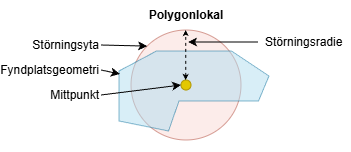
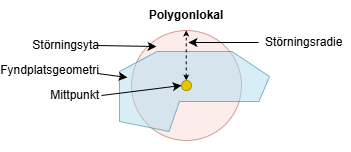
Update signal search docs

diff --git a/Docs/SignalSearch.md b/Docs/SignalSearch.md
@@ -15,9 +15,11 @@
    - [5.3 Date (mandatory)](#53-date-mandatory)
    - [5.4 Other filters (optional)](#54-other-filters-optional)
 6. [Geographic filter](#6-geographic-filter)
-   - [6.1 How geographic information is stored](#61-how-geographic-information-is-stored)
-   - [6.2 How geometry is used in searches](#62-how-geometry-is-used-in-searches)
-   - [6.3 Accuracy-based limitation](#63-accuracy-based-limitation)
+    ### 6.1 Location types
+   - [6.1 Location types](#61-location-types)
+   - [6.2 How geographic information is stored](#62-how-geographic-information-is-stored)
+   - [6.3 How geometry is used in searches](#63-how-geometry-is-used-in-searches)
+   - [6.4 Accuracy-based limitation](#64-accuracy-based-limitation)
 7. [Logging and traceability](#7-logging-and-traceability)
 8. [Signal Search API endpoint](#8-signal-search-api-endpoint)
    - [8.1 Endpoint](#81-endpoint)
@@ -162,43 +164,43 @@ If no mandatory taxon list is provided, **HTTP 400 (Bad Request)** is returned.
 
 ## 6. Geographic filter
 
-The geographic filter allows the user to specify how geographic information should be handled in signal searches, in order to account for positional uncertainty in observations and species sensitivity to disturbance.
+The geographic filter allows the user to specify how geographic information should be handled in signal searches, in order to account for positional uncertainty in observations and species' sensitivity to disturbance.
 
-### 6.1 How geographic information is stored
+### 6.1 Location types
+
+There are two types of locations for observations. An observation always uses one of these location types, which determines how the observation's geometry is constructed and handled in geographic searches.
+
+* **Point location:** Specified with a *centroid* and a *coordinate uncertainty*. The observation's *observation geometry* is created by generating a circular polygon where the radius is the same as the coordinate uncertainty.
+
+![Point location illustration](Images/point-location.png)
+
+* **Polygon location:** Consists of a specifically drawn polygon that describes the actual spatial extent of the observation. *Coordinate uncertainty* is not used for these locations; instead, the polygon itself constitutes the *observation geometry*.
+
+![Polygon location illustration](Images/polygon-location.png)
+
+### 6.2 How geographic information is stored
 
 Each observation can be represented geographically in the following ways:
 
 1. **Centroid (location.point)**.
-   A point representing the reported position of the observation, together with a coordinate uncertainty (`coordinateUncertaintyInMeters`).
-
+A point representing the position of the observation, together with a coordinate uncertainty (`coordinateUncertaintyInMeters`).
 2. **Observation geometry (location.pointWithBuffer)**.
-For point-based observations, a circular polygon is created where the centroid is the observation point and the radius corresponds to the coordinate uncertainty (`coordinateUncertaintyInMeters`) i.e. the distance (in meters) from the given point describing the smallest circle containing the whole of the location.
-For **polygon locations**, the **exact polygon** describing the true spatial extent of the observation is stored instead. Polygon locations are therefore not converted into circles.
-
+    - For **point locations**, a circular polygon is created where the centroid is the observation point and the radius corresponds to the coordinate uncertainty (`coordinateUncertaintyInMeters`), i.e. the distance (in meters) from the given point describing the smallest circle containing the whole of the location.
+    - For **polygon locations**, the exact polygon describing the true spatial extent of the observation is stored instead. Polygon locations are therefore not converted into circles.
 3. **Disturbance area (location.pointWithDisturbanceBuffer)**.
-A polygon created from the observation centroid and the taxon’s defined disturbance radius. A disturbance radius is defined as the distance at which a disturbance may have affect on the organism. The disturbance radius is used as a buffer for observations of taxa that are reported with exact location (i.e. small coordinate uncertainty) but are sensitive to disturbance at greater distances.
-For polygon locations, the disturbance area is also based on the centroid combined with the disturbance radius.
+*This polygon is only created if the species associated with the observation has a value for disturbance radius*. It is used as a buffer for observations of species that can be affected by disturbance over greater distances (even if they are reported at a highly exact location). The disturbance area is a circular polygon originating from the observation's centroid, where the radius corresponds to the taxon's defined disturbance radius (the distance at which a disturbance is assessed to affect the species). This approach (centroid + disturbance radius) is used for both point locations and polygon locations.
 
-### 6.2 How geometry is used in searches
+### 6.3 How geometry is used in searches
 
-Which geographic representation is used in a signal search is determined by which parameters are enabled. These parameters control whether the search should take into account positional uncertainty and/or species disturbance sensitivity.
+Which geographic representation is used in the signal search is determined by which parameters are enabled. These determine whether the search should take into account positional uncertainty of the observation and/or the species' sensitivity to disturbance.
 
-* **considerObservationAccuracy = true**.
-  The search is performed against the polygon area `location.pointWithBuffer`.
-  Observations whose centroid lies outside the search geometry may still be included, provided that some part of the observation’s polygon area intersects or overlaps the search area.
+* **considerObservationAccuracy = true.** The search is performed against the observation's **observation geometry**. This means that observations whose **centroid** lies outside the search area may still be included, provided that some part of its **observation geometry** overlaps the search area.
+* **considerDisturbanceRadius = true.** The search is performed against the observation's **disturbance area**. Observations whose centroid lies outside the search geometry may still be included, provided that some part of the observation's **disturbance area** intersects or overlaps the search area. *(Note: The disturbance sensitivity is classified for a selection of species and is approximated by the radius of a circle based on a point coordinate. It is used to be able to account for species occurrences that are outside the search area but may still be affected by conditions or events within the search area.).*
+* **considerObservationAccuracy = false and considerDisturbanceRadius = false.** The search is performed solely against the observation's **centroid**. Only observations whose point lies exactly within the search area will result in a match.
 
-* **considerDisturbanceRadius = true**.
-  The search is performed against the disturbance area `location.pointWithDisturbanceBuffer`.
-  Observations whose centroid lies outside the search geometry may still be included, provided that some part of the disturbance area intersects or overlaps the search area.
+### 6.4 Accuracy-based limitation
 
-  The disturbance sensitivity is classified for a selection of species and is approximated by the radius of a circle based on a point coordinate. It is used to be able to account for species occurrences that are outside the search area but may still be affected by conditions or events within the search area.
-
-* **considerObservationAccuracy = false** and **considerDisturbanceRadius = false**.
-  The search is performed solely against the observation centroid (`location.point`). Only observations whose point lies within the search geometry can result in a match.
-
-### 6.3 Accuracy-based limitation
-
-* If the **maxAccuracy** parameter is set, only observations with a coordinate uncertainty (`coordinateUncertaintyInMeters`) **less than or equal to** the specified value are included.
+* If the **maxAccuracy** parameter is set, only observations whose coordinate uncertainty (`coordinateUncertaintyInMeters`) is **less than or equal to** the specified value are included.
 
 This limitation applies regardless of which geographic representation is otherwise used in the search.
 

diff --git a/Docs/SignalSearchSv.md b/Docs/SignalSearchSv.md
@@ -15,7 +15,7 @@
    - [5.3 Datum (obligatoriskt)](#53-datum-obligatoriskt)
    - [5.4 Övriga filter (valfria)](#54-övriga-filter-valfria)
 6. [Geografiskt filter](#6-geografiskt-filter)
-   - [6.1 Lokaltyper i Artportalen](#61-lokaltyper-i-artportalen)
+   - [6.1 Lokaltyper](#61-lokaltyper)
    - [6.2 Hur geografisk information lagras](#62-hur-geografisk-information-lagras)
    - [6.3 Hur geometri används vid sökning](#63-hur-geometri-används-vid-sökning)
    - [6.4 Begränsning baserat på noggrannhet](#64-begränsning-baserat-på-noggrannhet)
@@ -166,9 +166,9 @@ Om ingen obligatorisk lista anges returneras **HTTP 400 (Bad Request)**.
 
 Med det geografiska filtret kan användaren specificera hur geografisk information ska hanteras vid signalsökning för att ta hänsyn till osäkerhet i observationer och arters känslighet för störning.
 
-### 6.1 Lokaltyper i Artportalen
+### 6.1 Lokaltyper
 
-När fyndplatser rapporteras i Artportalen används i huvudsak två olika typer av lokaler. Dessa avgör hur observationens geometri byggs upp och hanteras vid sökningar:
+Det finns två typer av lokaler för fyndplatser. En observation använder alltid en av dessa lokaltyper, vilket avgör hur observationens geometri byggs upp och hanteras vid geografiska sökningar.
 
 * **Punktlokal:** Anges med en *mittpunkt* och en *koordinatnoggrannhet*. Observationens *fyndplatsgeometri* skapas genom att generera en cirkulär polygon där radien är densamma som koordinatnoggrannheten.
  
@@ -190,7 +190,7 @@ För punktlokaler skapas en cirkulär polygon där mittpunkten är observationen
 För **polygonlokaler** lagras istället den **exakta polygonen** som beskriver observationens faktiska utbredning. Polygonlokaler omvandlas alltså inte till cirklar.
 
 3. **Störningsyta (location.pointWithDisturbanceBuffer)**.
-_Denna polygon skapas enbart om arten i fråga är klassad som störningskänslig_. Den används som en buffert för observationer av arter som kan påverkas av störning över större avstånd (även om de är rapporterade på en mycket exakt fyndplats). Störningsytan är en cirkulär polygon som utgår från observationens mittpunkt, där radien motsvarar taxonets definierade störningsradie (det avstånd på vilket en störning bedöms påverka arten). Detta tillvägagångssätt (mittpunkt + störningsradie) används både för punktlokaler och polygonlokaler.
+_Denna polygon skapas enbart om arten i fråga har ett värde för störningsradie_. Den används som en buffert för observationer av arter som kan påverkas av störning över större avstånd (även om de är rapporterade på en mycket exakt fyndplats). Störningsytan är en cirkulär polygon som utgår från observationens mittpunkt, där radien motsvarar taxonets definierade störningsradie (det avstånd på vilket en störning bedöms påverka arten). Detta tillvägagångssätt (mittpunkt + störningsradie) används både för punktlokaler och polygonlokaler.
 
 ### 6.3 Hur geometri används vid sökning
 
